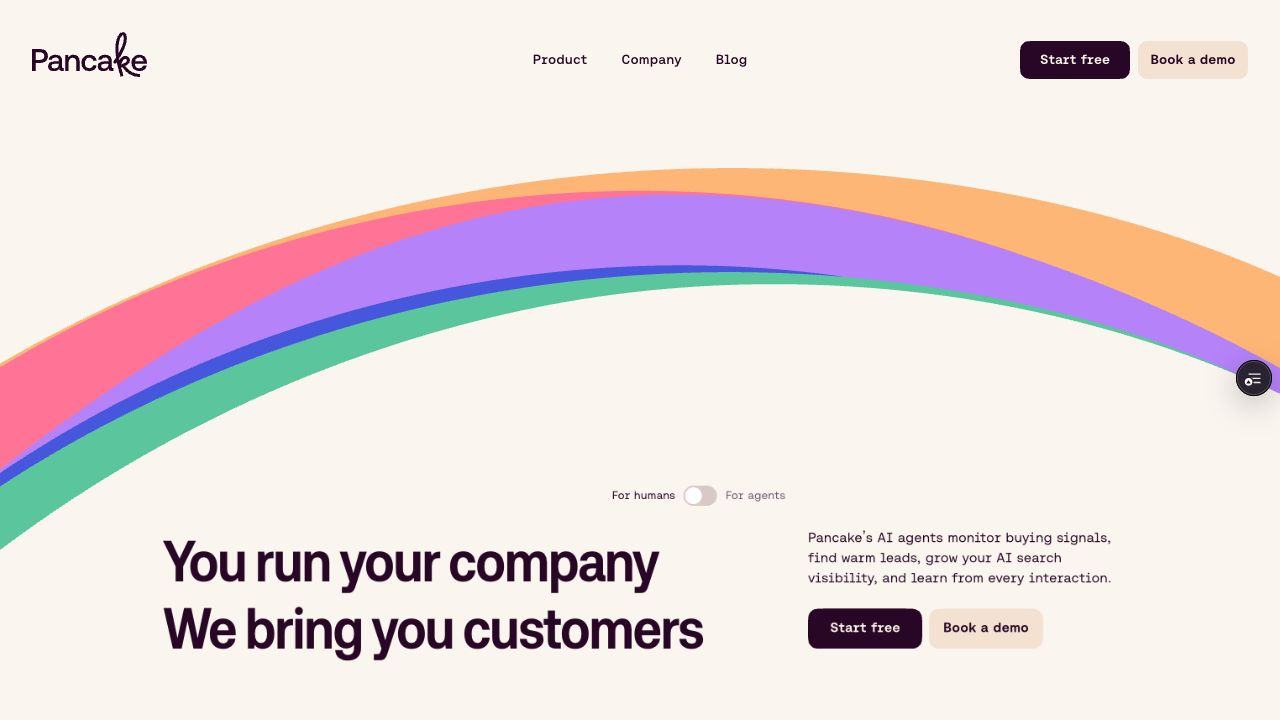
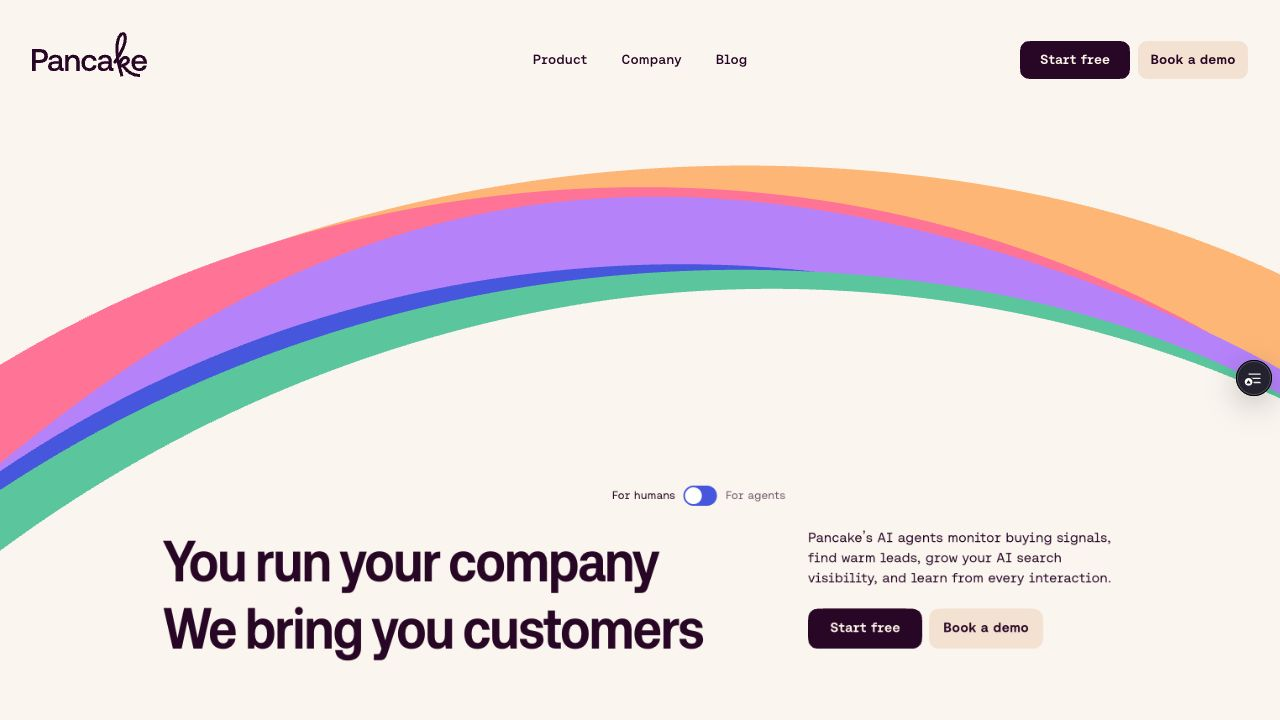
Use rainbow blue for human switch state

diff --git a/app/_styles/landing-v3/audience.css b/app/_styles/landing-v3/audience.css
@@ -19,7 +19,7 @@
 /* The transparent hit area is larger than the exact Figma artwork. */
 .lp-audience-switch { display: grid; place-items: center; width: calc(var(--lp-space-12) - var(--lp-space-1)); height: calc(var(--lp-space-12) - var(--lp-space-1)); padding: 0; border: 0; background: transparent; border-radius: var(--lp-r-sm); cursor: pointer; touch-action: manipulation; }
 .lp-audience-switch:focus-visible { outline: calc(2 * var(--lp-line)) solid var(--lp-purple-30); outline-offset: var(--lp-space-1); }
-.lp-audience-switch__track { display: block; position: relative; width: var(--lp-switch-width); height: var(--lp-switch-height); border-radius: var(--lp-switch-radius); background: var(--lp-ink-50); transition: background-color .25s var(--lp-audience-ease); }
+.lp-audience-switch__track { display: block; position: relative; width: var(--lp-switch-width); height: var(--lp-switch-height); border-radius: var(--lp-switch-radius); background: var(--lp-blue-40); transition: background-color .25s var(--lp-audience-ease); }
 .lp-audience-switch__thumb { position: absolute; top: var(--lp-switch-inset); left: var(--lp-switch-inset); width: var(--lp-switch-thumb); height: var(--lp-switch-thumb); border-radius: var(--lp-switch-thumb-radius); background: var(--lp-ink-0); transition: transform .25s var(--lp-audience-ease); }
 .lp-audience-switch[aria-checked="true"] .lp-audience-switch__track { background: var(--lp-green-20); }
 .lp-audience-switch[aria-checked="true"] .lp-audience-switch__thumb { transform: translateX(calc(var(--lp-switch-width) - var(--lp-switch-thumb) - 2 * var(--lp-switch-inset))); }

diff --git a/docs/human-agent-design.md b/docs/human-agent-design.md
@@ -5,7 +5,7 @@ Scope reset by Tristan on September 4, 2026: keep the existing landing, add a to
 ## Implemented
 
 - Human mode is the original v3 landing (baseline `14ad159`) with only the audience selector added.
-- The selector uses the [Figma Signals switch](https://www.figma.com/design/fr8NgOCTUxsEbrMEJA3YKu/Pancake-Design?node-id=4389-781): a 40×24 track, 20×20 white thumb and 2px inset. Per Tristan’s follow-up, its on state uses the human rainbow’s green (`--lp-green-20`); its off state uses Figma’s ink-50. The artwork sits within a 44×44 keyboard-accessible button.
+- The selector uses the [Figma Signals switch](https://www.figma.com/design/fr8NgOCTUxsEbrMEJA3YKu/Pancake-Design?node-id=4389-781): a 40×24 track, 20×20 white thumb and 2px inset. Per Tristan’s follow-up, human mode uses the human rainbow’s blue (`--lp-blue-40`) and agent mode its green (`--lp-green-20`). The artwork sits within a 44×44 keyboard-accessible button.
 - Agent mode keeps the original navigation, hero headline, description, buttons, layout and rainbow motion. Cream and plum exchange roles; each of the five rainbow bands uses its exact RGB negative.
 - Only an empty `100vh` section follows the agent hero. There is no agent demo, setup block, pricing, testimonial section or footer in this view.
 - `/?audience=agents` opens the inverse hero directly. The toggle updates the URL without remounting the hero; refresh and browser history retain the selected view.
@@ -22,6 +22,6 @@ Scope reset by Tristan on September 4, 2026: keep the existing landing, add a to
 - Direct agent URL, keyboard switching, back/forward, reduced motion, inverse mobile menu and the existing booking dialog were checked. The live WebGL renderer and forced phone Canvas fallback both retained the correct palette through audience changes.
 - Independent code review confirmed the reduced scope and original component parity.
 
-Preview: https://pancake-ms7d4eczo-getpancake.vercel.app
+Preview: https://pancake-5rai1atqu-getpancake.vercel.app
 
 The research screenshots and product evidence retained beside this document are historical research from the earlier, broader concept. They do not describe the implemented scope above.

diff --git a/PROGRESS.md b/PROGRESS.md
@@ -14,7 +14,7 @@ Scope: original human landing plus a selector above the headline’s right edge.
 
 - [x] Restore original v3 copy and section components.
 - [x] Keep human layout unchanged apart from the selector.
-- [x] Match the Figma Signals switch, with the human rainbow’s green for its on state.
+- [x] Match the Figma Signals switch, with rainbow blue for humans and green for agents.
 - [x] Remove the earlier agent copy, demonstrations and setup surfaces.
 - [x] Add the inverse hero, preserving artwork and motion phase.
 - [x] Keep URL sharing, refresh, browser history and keyboard switching working.
@@ -22,7 +22,7 @@ Scope: original human landing plus a selector above the headline’s right edge.
 - [x] Independently review code and test booking and mobile menu behavior.
 - [x] Complete production build and updated Vercel preview verification.
 
-Preview: https://pancake-ms7d4eczo-getpancake.vercel.app
+Preview: https://pancake-5rai1atqu-getpancake.vercel.app
 Draft PR: https://github.com/get-pancake/website/pull/275
 
 Implementation and validation: [human-agent-design.md](docs/human-agent-design.md).
